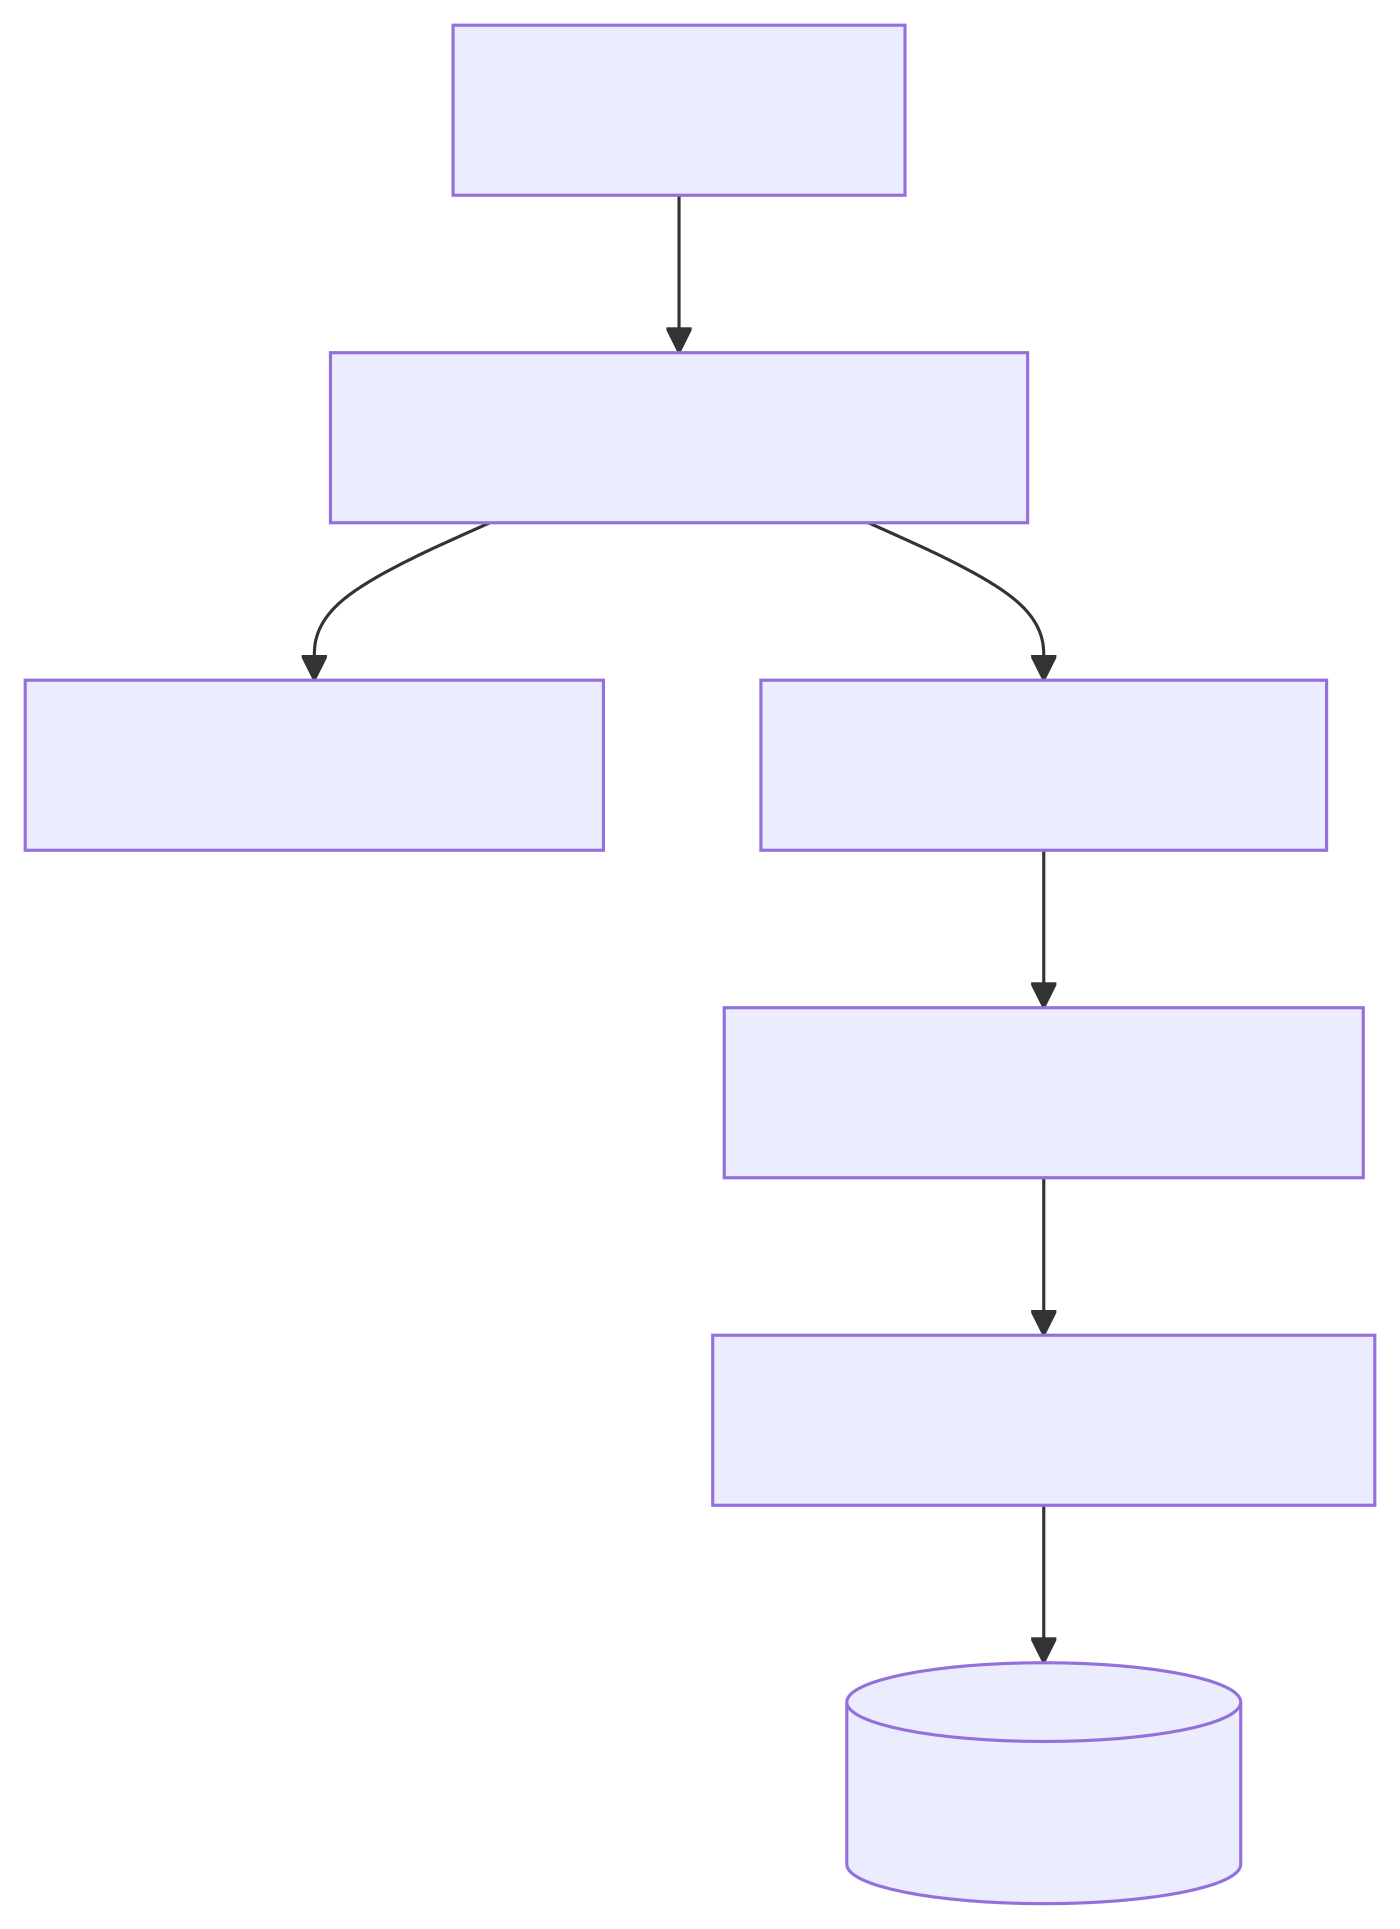
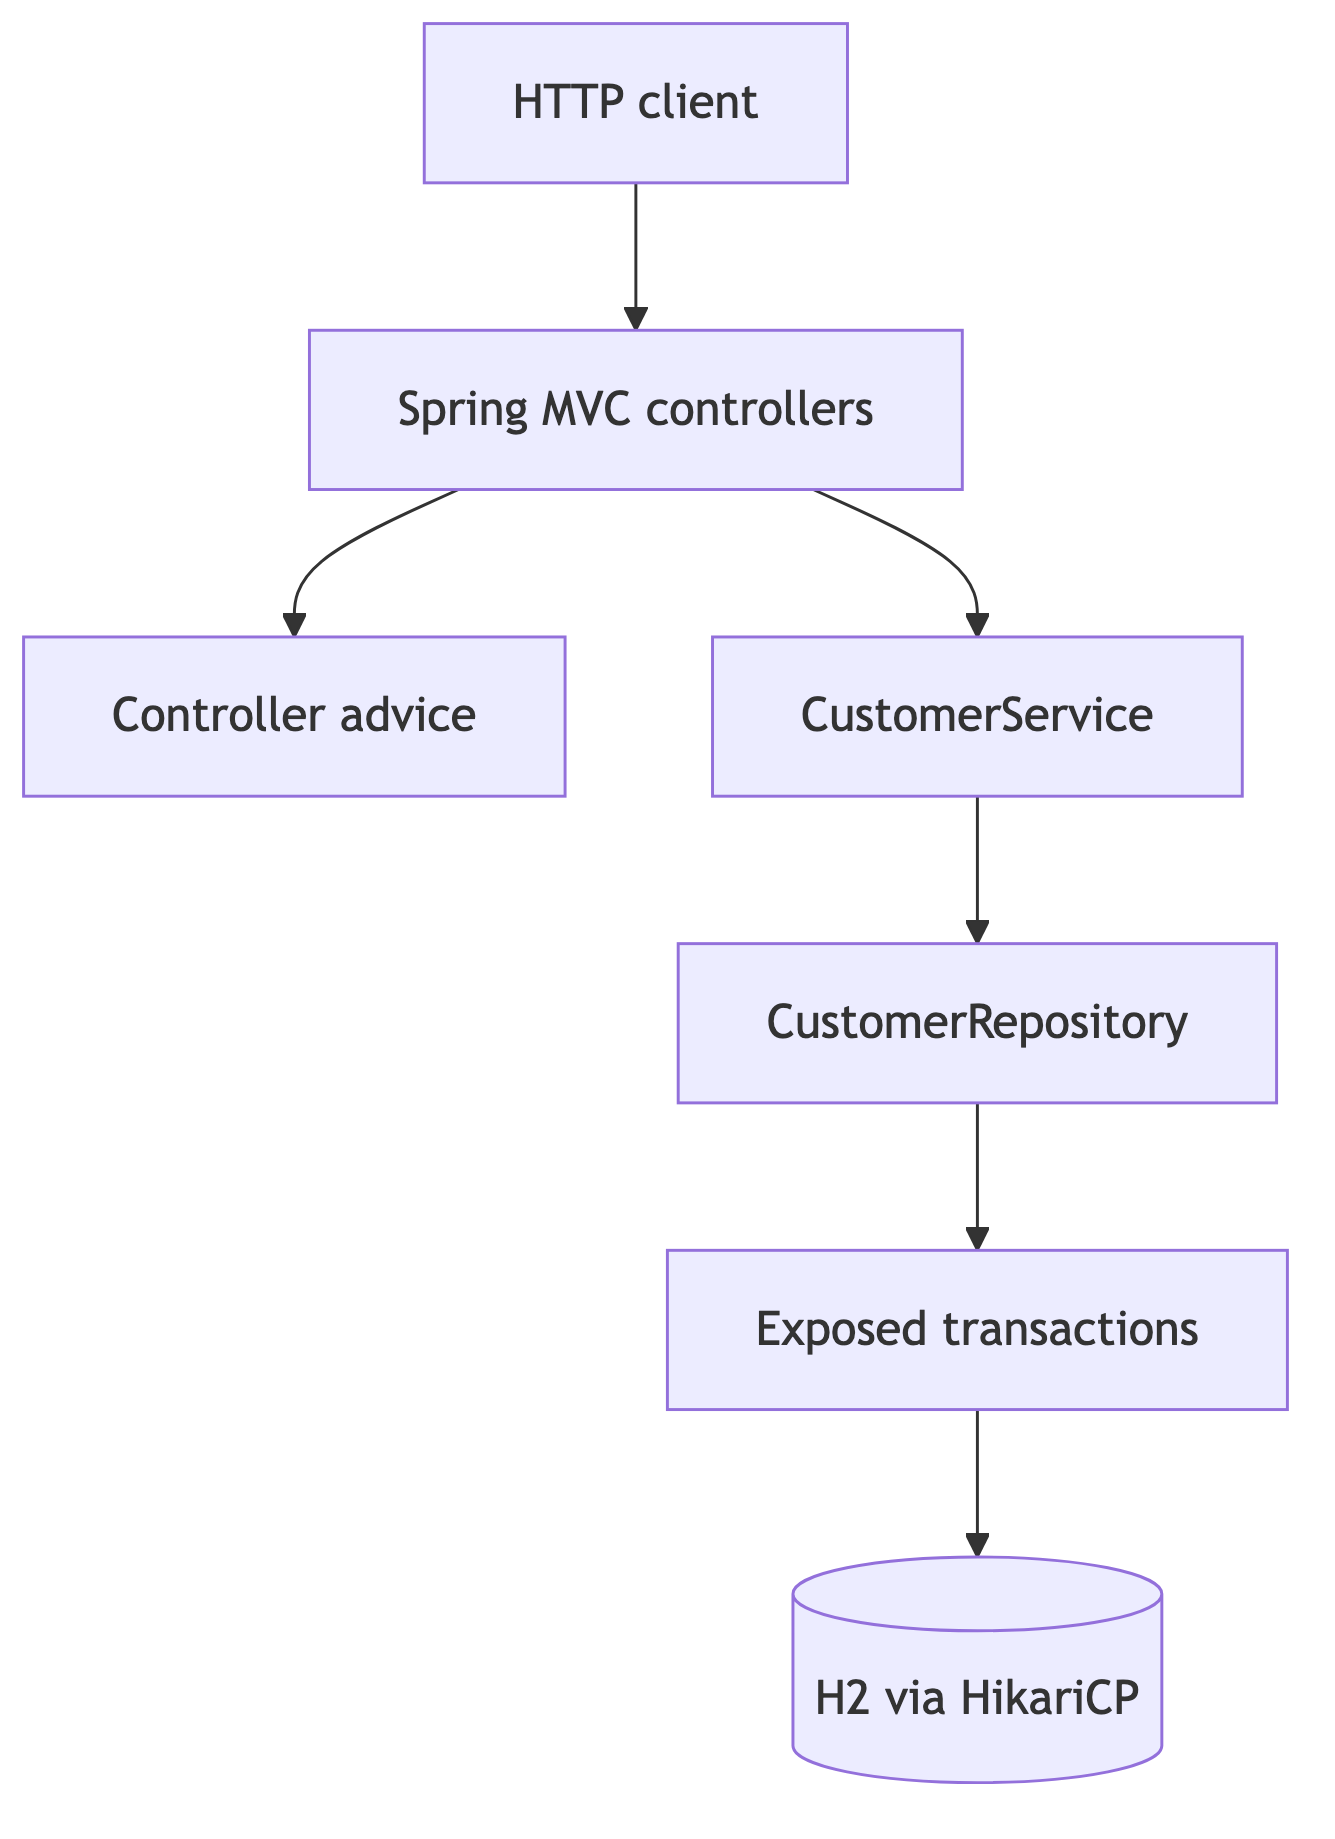
docs: make chapter 12 diagram text visible
Regenerate Mermaid-derived PNGs through the browser renderer so labels survive the README image conversion path.

Constraint: README diagrams must be committed PNG assets, not Mermaid blocks.

Rejected: SVG-to-PNG conversion through rsvg-convert | it drops Mermaid foreignObject text.

Confidence: high

Scope-risk: narrow

Directive: Open generated PNGs visually; file existence and dimensions are not enough.

Tested: Visual inspection of regenerated 02/03/04 PNGs; chapter 12 README scan readmes=12 missingPng=0 missingArchitecture=0 mermaidResidue=0 missingFiles=0; git diff --check; ImageMagick identify dimensions.

Not-tested: Gradle tests, because only committed documentation image assets changed.

diff --git a/docs/lessons/2026-05-22-issue-63-chapter-12-diagram-images.md b/docs/lessons/2026-05-22-issue-63-chapter-12-diagram-images.md
@@ -11,6 +11,9 @@ requires example architecture diagrams to be committed as PNG images.
 Convert the remaining Mermaid blocks to committed SVG+PNG assets under
 `docs/images/readme-diagrams/` and keep README embeds pointing to PNG files only.
 The Mermaid source remains represented by the generated SVG source asset.
+Render final PNGs through Mermaid CLI/Chromium directly, not by converting
+foreignObject-heavy Mermaid SVGs with `rsvg-convert`, because that can drop text
+while leaving the boxes visible.
 
 ## Outcome
 
@@ -24,9 +27,14 @@ diagram.
   `missingArchitecture=0`, `mermaidResidue=0`, `missingFiles=0`.
 - `git diff --check` passed.
 - PNG dimensions verified with `file`/`sips` for the three new image assets.
+- Follow-up correction: visually opened the regenerated 02/03/04 PNGs and
+  confirmed dark text is visible on the light diagram boxes.
 
 ## Future Notes
 
 When adding chapter 12 examples, commit the diagram image assets before the
 README link lands. Use Mermaid only as an intermediate source, not as the final
 README rendering surface.
+Do not treat PNG file existence or image dimensions as sufficient validation;
+open at least one generated PNG per rendering path and confirm labels are
+visible.
